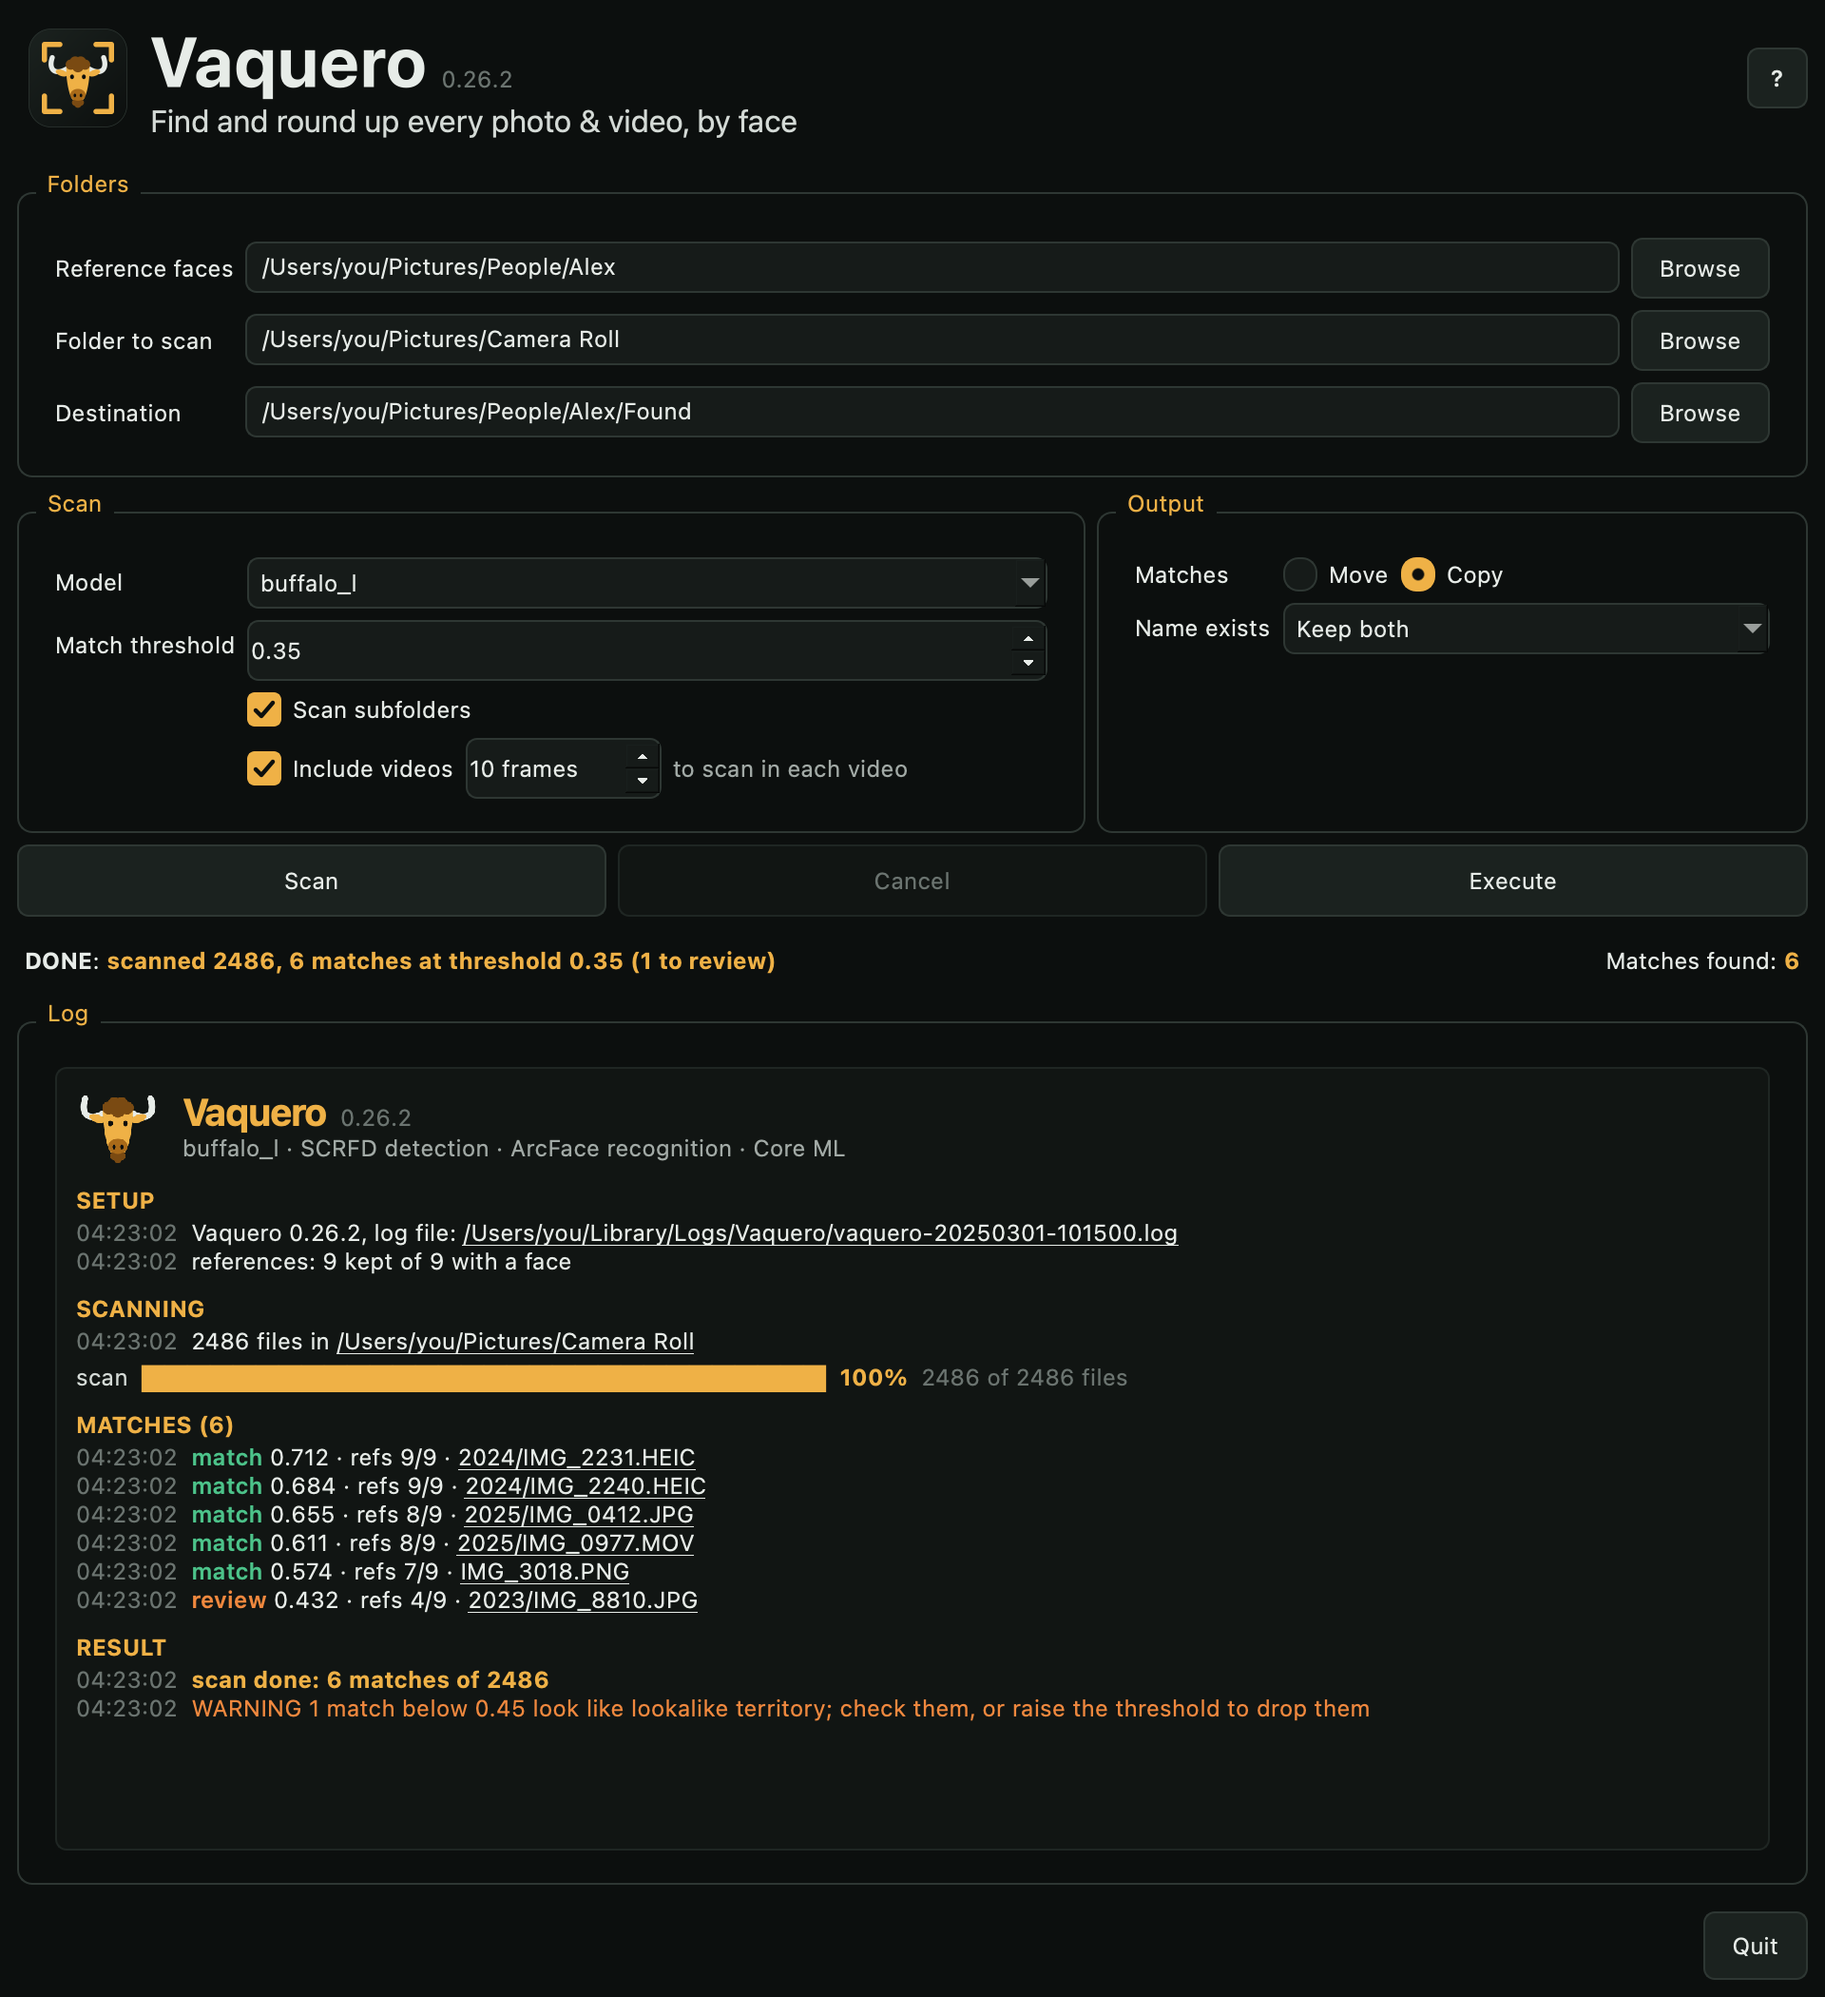
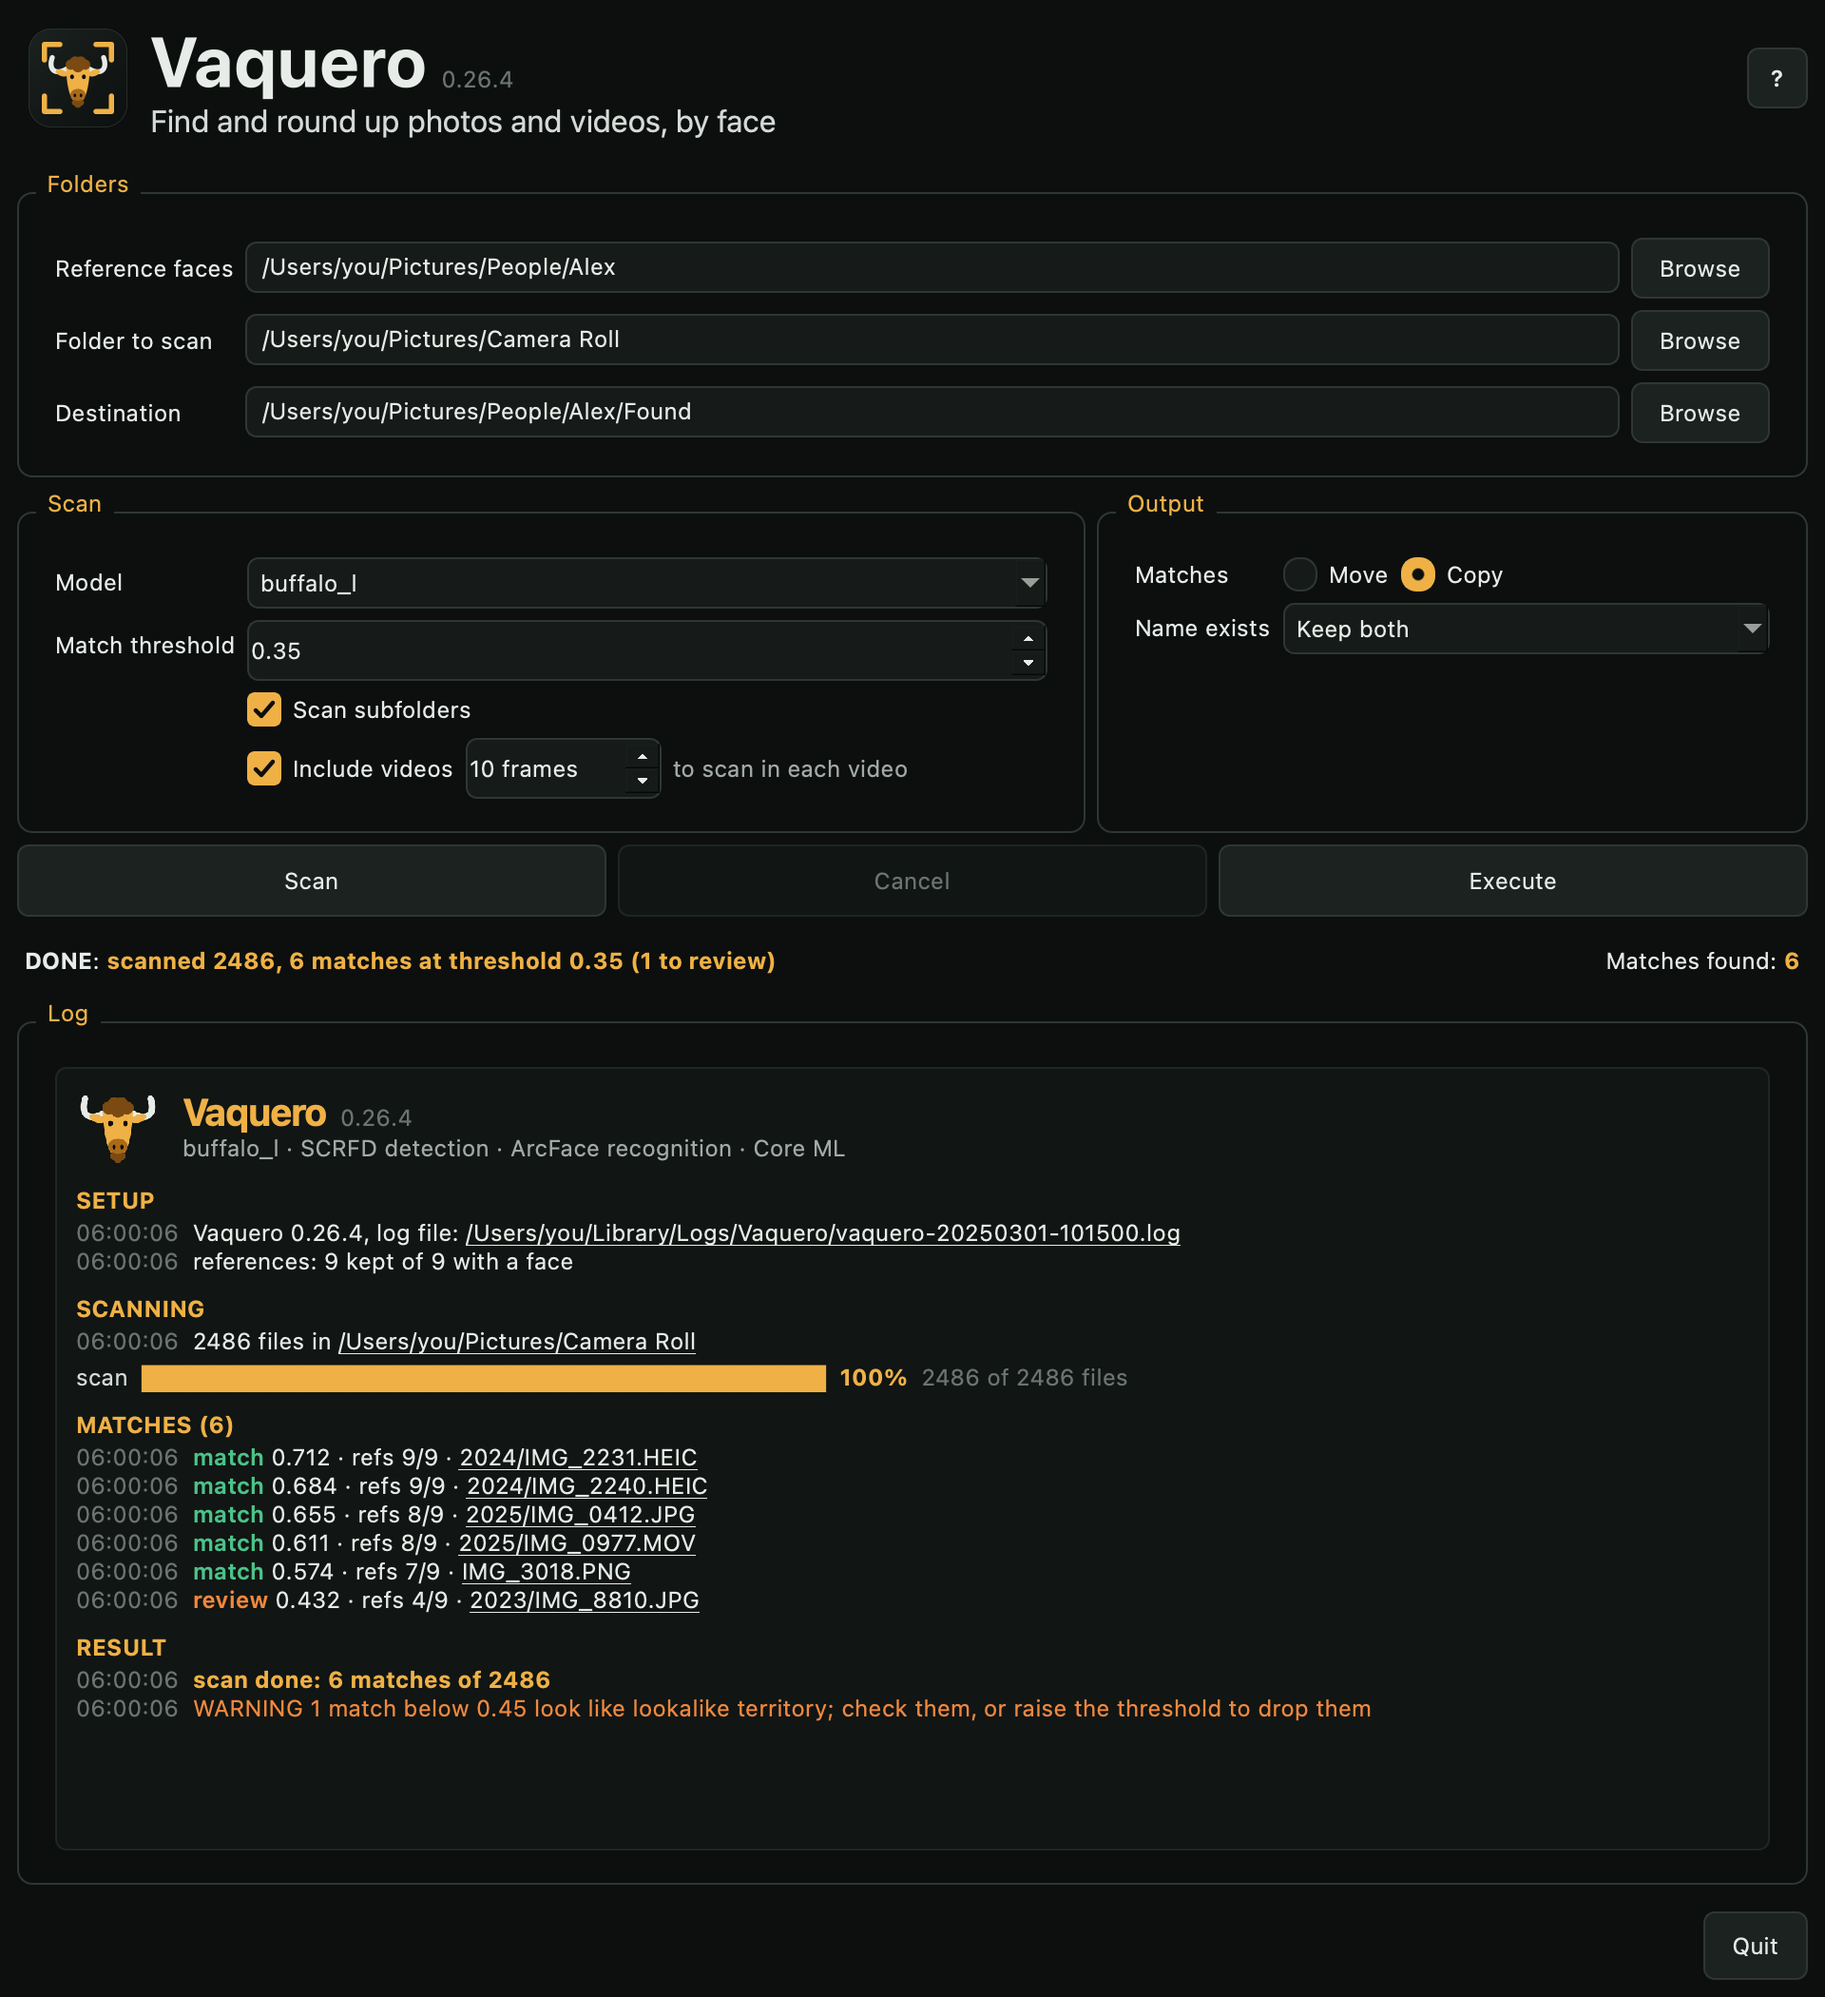
docs: slogan "Find and round up photos and videos, by face", new screenshots and preview card

diff --git a/scripts/make_web_icons.py b/scripts/make_web_icons.py
@@ -19,7 +19,7 @@ BG = (12, 15, 14)  # the app's background, #0c0f0e
 FG = (231, 236, 232)  # the app's text, #e7ece8
 AMBER = (239, 177, 70)
 FONT = "/System/Library/Fonts/HelveticaNeue.ttc"
-HEADLINE = ("Find and round up", "every photo & video, by face")  # "every photo & video" stays on one line
+HEADLINE = ("Find and round up", "photos and videos,", "by face")
 TAGLINE = ("Free, open source, no account.", "Stays on your Mac.")
 
 
@@ -49,7 +49,7 @@ def og_image(icon: Image.Image) -> Image.Image:
     bold = ImageFont.truetype(FONT, 50, index=1)  # the longer headline line fits with a margin to the right edge
     regular = ImageFont.truetype(FONT, 32, index=0)
     # text, font, color, space below; the block is centered on the icon
-    lines = [("Vaquero", name, AMBER, 16), (HEADLINE[0], bold, FG, 8), (HEADLINE[1], bold, FG, 24)]
+    lines = [("Vaquero", name, AMBER, 16), (HEADLINE[0], bold, FG, 8), (HEADLINE[1], bold, FG, 8), (HEADLINE[2], bold, FG, 24)]
     lines += [(TAGLINE[0], regular, AMBER, 6), (TAGLINE[1], regular, AMBER, 0)]
     heights = [draw.textbbox((0, 0), text, font=font, anchor="lt")[3] for text, font, _, _ in lines]
     y = (h - sum(heights) - sum(gap for *_, gap in lines)) / 2

diff --git a/vaquero/app.py b/vaquero/app.py
@@ -188,7 +188,7 @@ class QtLogHandler(logging.Handler, QObject):
         self.record_emitted.emit(colorize(record), getattr(record, "section", False))
 
 
-SLOGAN = "Find and round up every photo & video, by face"
+SLOGAN = "Find and round up photos and videos, by face"
 READY = "Ready"
 AUTO_UPDATE_KEY = "check_updates_on_launch"
 

diff --git a/README.md b/README.md
@@ -20,7 +20,7 @@
 </p>
 
 <p align="center">
-  <strong>Find and round up every photo &amp; video, by face.</strong><br>
+  <strong>Find and round up photos and videos, by face.</strong><br>
   Point Vaquero at a few photos of someone. It can then scan and find every matching photo or video of them, and copy / move them wherever you want. It all runs locally, nothing leaves your Mac.
 </p>
 
